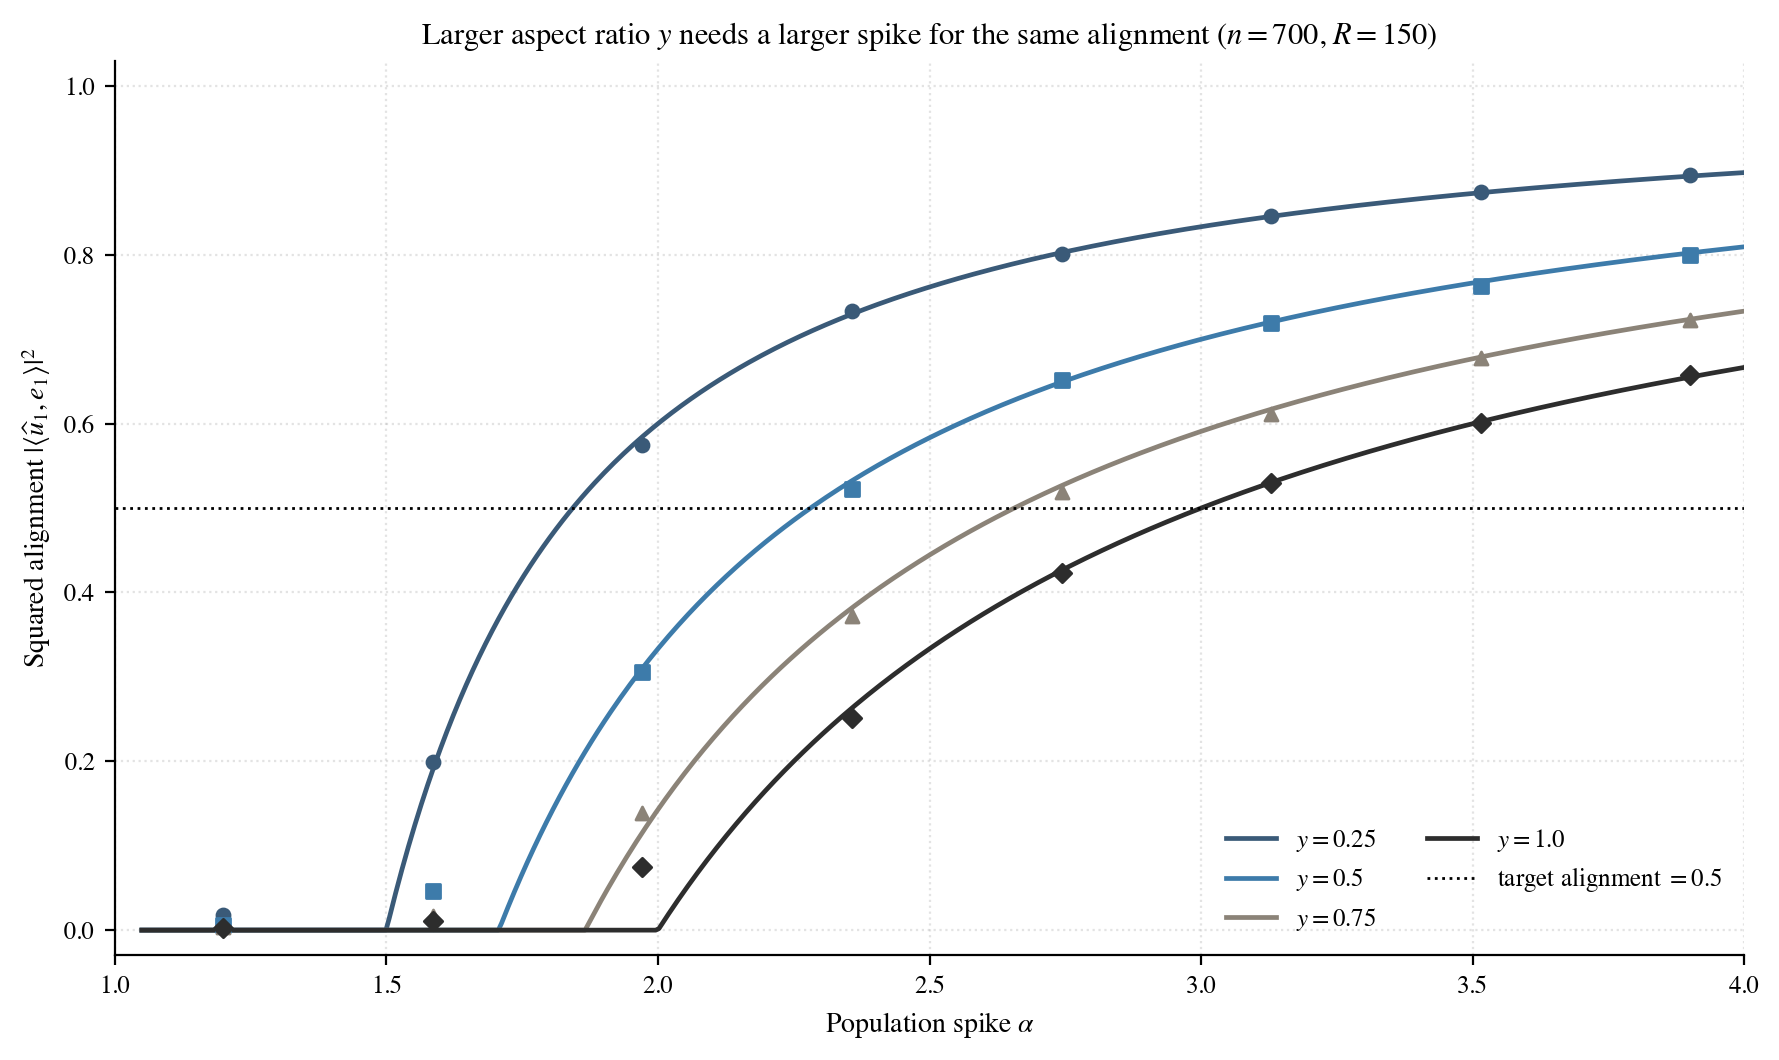
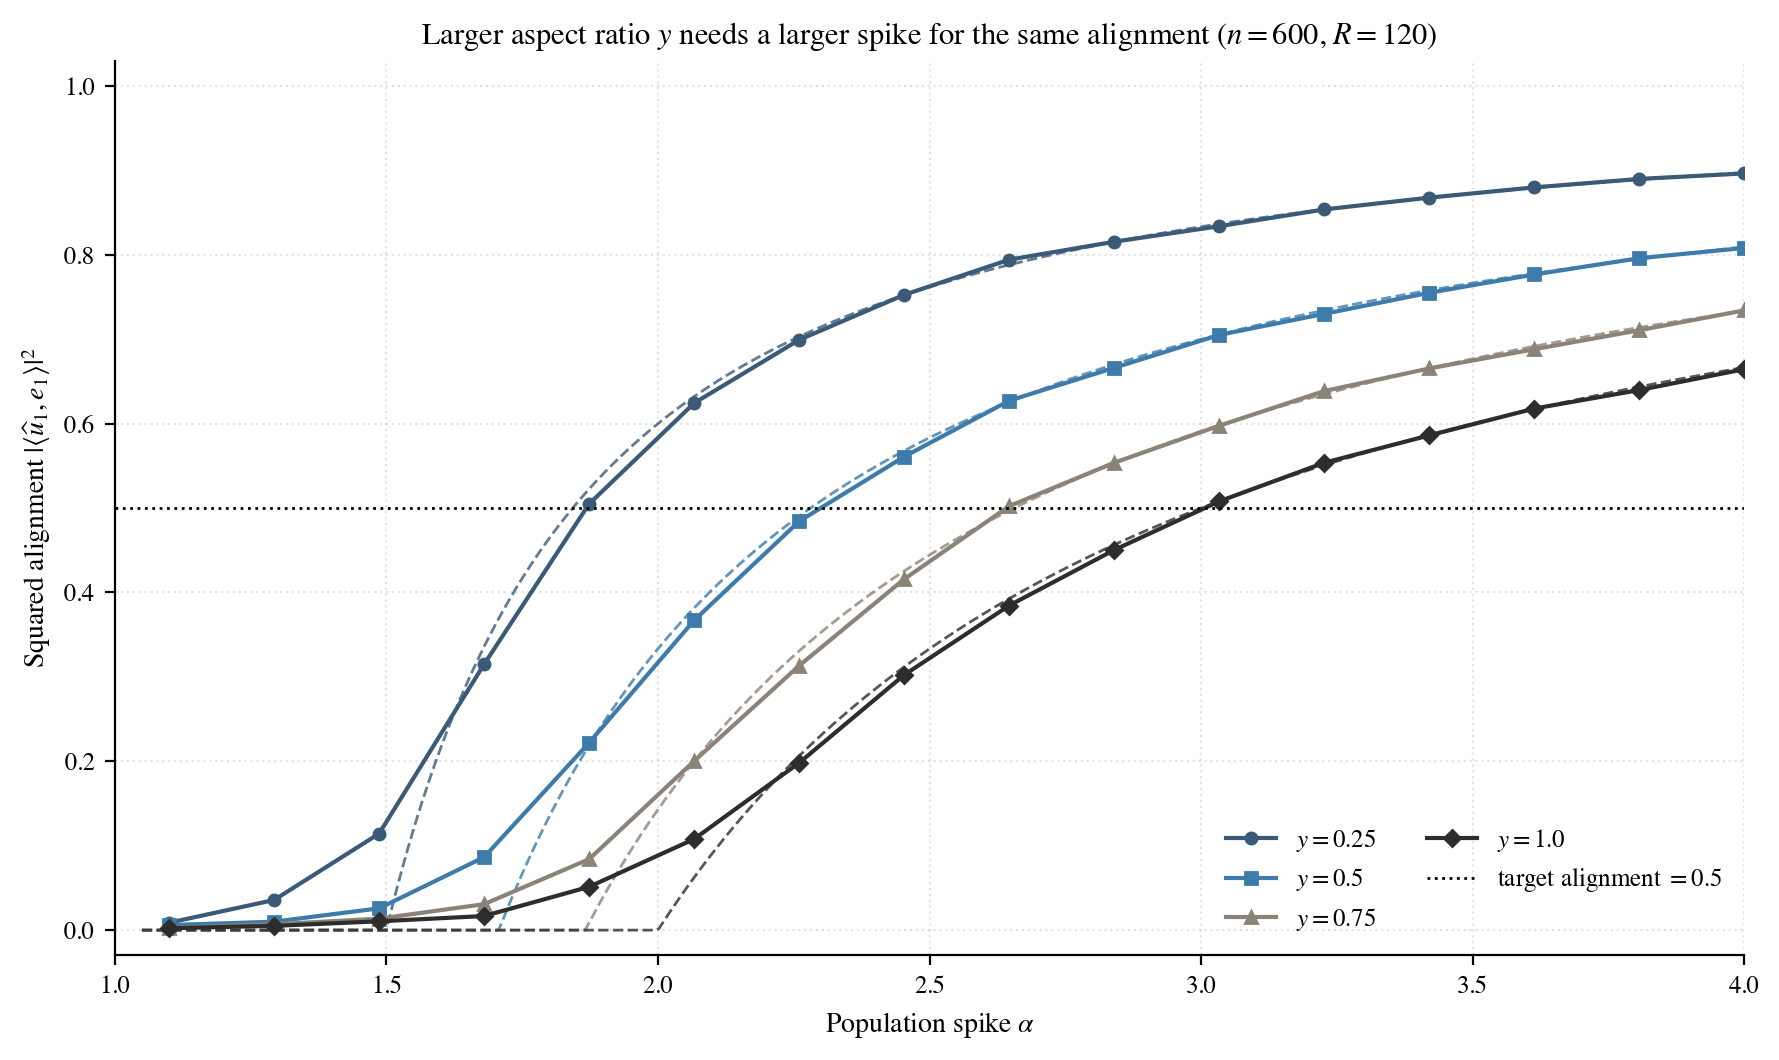
04.4: restructure eigenvector section + show simulated path
Reworks §4.4 for a clearer progression, per feedback:

  - opens with a weak-vs-strong overlap histogram (Figure 23) showing the
    two regimes are cleanly distinct, before any theory;
  - then the theory (Thm 4.5 / Cor 4.6 / the rho identity);
  - alignment-vs-alpha curve (Figure 24);
  - NEW distribution-change violin (Figure 25): the alignment is pinned at
    0 below the threshold, broad and skewed just above, and tight for large
    alpha;
  - dimension/compensation figure (Figure 26) reworked to show the
    SIMULATED PATH (connected simulation means, as in Exercise 7) with the
    theory dashed underneath -- the previous version only scattered points.

Two new figure generators (histogram, violin); the dimension generator now
traces connected simulated paths. Build: 73 pages, no undefined references.

diff --git a/notebooks/04_section4_demos.py b/notebooks/04_section4_demos.py
@@ -836,31 +836,117 @@ def make_eigenvector_alignment_figure() -> Path:
     return path
 
 
+def make_eigenvector_overlap_histogram_figure() -> Path:
+    """Histogram of the squared alignment for a weak (subcritical) and a strong
+    (supercritical) spike at one large n. The two cases land in cleanly distinct
+    places: the weak-spike eigenvector is noise (alignment ~0), the strong-spike
+    eigenvector recovers a definite fraction (~rho). Motivating entry point,
+    mirroring Exercise 7."""
+    rng = np.random.default_rng(SEED + 9)
+    y = 0.5
+    n, p = 1200, 600
+    R = 300
+    alpha_weak, alpha_strong = 1.4, 2.5
+    rho_w = float(rho_overlap(alpha_weak, y))
+    rho_s = float(rho_overlap(alpha_strong, y))
+
+    ov_w = simulate_top_overlap(alpha_weak, p=p, n=n, rng=rng, R=R)
+    ov_s = simulate_top_overlap(alpha_strong, p=p, n=n, rng=rng, R=R)
+
+    fig, ax = plt.subplots(figsize=(9, 5.2))
+    ax.hist(ov_w, bins=30, density=True, color=PALETTE["accent"], alpha=0.65,
+            edgecolor="white", linewidth=0.3,
+            label=rf"weak spike $\alpha = {alpha_weak}$ (subcritical)")
+    ax.hist(ov_s, bins=30, density=True, color=PALETTE["def"], alpha=0.65,
+            edgecolor="white", linewidth=0.3,
+            label=rf"strong spike $\alpha = {alpha_strong}$ (fundamental)")
+    ax.axvline(rho_w, color=PALETTE["accent"], linestyle="--", linewidth=1.4,
+               label=rf"$\rho = {rho_w:.0f}$ (weak)")
+    ax.axvline(rho_s, color=PALETTE["def"], linestyle="--", linewidth=1.4,
+               label=rf"$\rho \approx {rho_s:.2f}$ (strong)")
+
+    ax.set_xlabel(r"Squared alignment $|\langle \widehat{u}_1, e_1\rangle|^2$")
+    ax.set_ylabel("Density")
+    ax.set_title(rf"Weak vs strong spike: two distinct regimes "
+                 rf"($y = 1/2$, $n = {n}$, $R = {R}$)")
+    ax.legend(loc="upper center", frameon=False, fontsize=9)
+    ax.grid(True, linestyle=":", alpha=0.35)
+
+    fig.tight_layout()
+    path = FIGURES_DIR / "eigenvector_overlap_histogram.png"
+    fig.savefig(path)
+    plt.close(fig)
+    return path
+
+
+def make_eigenvector_overlap_violin_figure() -> Path:
+    """Violins of the squared alignment at several spike values, from below the
+    threshold to well above it. Shows how the whole distribution changes:
+    pinned at 0 below the threshold, broad and skewed just above it, then
+    tightening into a narrow blob as alpha grows and recovery becomes reliable."""
+    rng = np.random.default_rng(SEED + 10)
+    y = 0.5
+    n, p = 800, 400
+    R = 400
+    thr = 1.0 + np.sqrt(y)
+
+    alpha_list = [1.30, round(thr, 3), 2.00, 2.50, 3.00, 3.50]
+    data = [simulate_top_overlap(a, p=p, n=n, rng=rng, R=R) for a in alpha_list]
+
+    fig, ax = plt.subplots(figsize=(10, 5.4))
+    parts = ax.violinplot(data, positions=alpha_list, widths=0.18,
+                          showmedians=True, showextrema=False)
+    for body in parts["bodies"]:
+        body.set(facecolor=PALETTE["def"], edgecolor=PALETTE["def"], alpha=0.45)
+    parts["cmedians"].set(color=PALETTE["accent"], linewidth=1.2)
+
+    ax.axvline(thr, color=PALETTE["thm"], linestyle=":", linewidth=1.0,
+               label=rf"Threshold $\alpha_c \approx {thr:.2f}$")
+
+    ax.set_xlim(1.1, 3.7)
+    ax.set_ylim(-0.03, 0.9)
+    ax.set_xlabel(r"Population spike $\alpha$")
+    ax.set_ylabel(r"Squared alignment $|\langle \widehat{u}_1, e_1\rangle|^2$")
+    ax.set_title(rf"How the alignment distribution changes as $\alpha$ grows "
+                 rf"($y = 1/2$, $n = {n}$, $R = {R}$)")
+    ax.legend(loc="upper left", frameon=False, fontsize=9)
+    ax.grid(True, axis="y", linestyle=":", alpha=0.35)
+
+    fig.tight_layout()
+    path = FIGURES_DIR / "eigenvector_overlap_violin.png"
+    fig.savefig(path)
+    plt.close(fig)
+    return path
+
+
 def make_eigenvector_dimension_effect_figure() -> Path:
-    """Squared overlap against alpha for several aspect ratios y. Theory curves
-    (dense) with simulation means (sparse points) overlaid. A horizontal target
-    line shows the compensation question: to reach a fixed alignment, a larger y
-    requires a larger alpha."""
+    """Squared overlap against alpha for several aspect ratios y, showing the
+    SIMULATED PATH (connected simulation means) as in Exercise 7, with the
+    theory rho(alpha, y) dashed underneath. A horizontal target line shows the
+    compensation question: to reach a fixed alignment, a larger y requires a
+    larger alpha."""
     rng = np.random.default_rng(SEED + 8)
-    n = 700
-    R = 150
+    n = 600
+    R = 120
     y_values = [0.25, 0.5, 0.75, 1.0]
     colors = [PALETTE["def"], PALETTE["link"], PALETTE["accent"], PALETTE["thm"]]
     markers = ["o", "s", "^", "D"]
 
     alpha_fine = np.linspace(1.05, 4.0, 500)
-    alpha_pts = np.linspace(1.2, 3.9, 8)
+    alpha_pts = np.linspace(1.1, 4.0, 16)
     target = 0.5
 
     fig, ax = plt.subplots(figsize=(9, 5.4))
     for y, color, mk in zip(y_values, colors, markers):
         p = int(round(y * n))
+        # Theory curve (dashed, underneath).
         ax.plot(alpha_fine, rho_overlap(alpha_fine, y), color=color,
-                linewidth=1.7, label=rf"$y = {y}$")
-        pts = np.empty(len(alpha_pts))
-        for i, alpha in enumerate(alpha_pts):
-            pts[i] = simulate_top_overlap(float(alpha), p=p, n=n, rng=rng, R=R).mean()
-        ax.scatter(alpha_pts, pts, color=color, marker=mk, s=22, zorder=5)
+                linestyle="--", linewidth=1.0, alpha=0.8)
+        # Simulated path: connected means.
+        sim = np.array([simulate_top_overlap(float(a), p=p, n=n, rng=rng, R=R).mean()
+                        for a in alpha_pts])
+        ax.plot(alpha_pts, sim, color=color, marker=mk, markersize=4,
+                linewidth=1.5, label=rf"$y = {y}$")
 
     ax.axhline(target, color="black", linestyle=":", linewidth=1.0,
                label=rf"target alignment $= {target}$")
@@ -893,7 +979,9 @@ if __name__ == "__main__":
                make_spike_fluctuations_figure,
                make_critical_violin_sweep_figure,
                make_critical_merge_densities_figure,
+               make_eigenvector_overlap_histogram_figure,
                make_eigenvector_alignment_figure,
+               make_eigenvector_overlap_violin_figure,
                make_eigenvector_dimension_effect_figure):
         path = fn()
         print(f"  Saved: {path.name}")

diff --git a/sections/04-spiked-covariance-bbp.tex b/sections/04-spiked-covariance-bbp.tex
@@ -216,7 +216,16 @@ Theorem~\ref{thm:bbp} tells us \emph{that} a fundamental spike is visible in the
 \]
 where \(\theta\) is the angle between the two directions; squaring removes the harmless sign ambiguity in \(\widehat{\vect u}_1\). A value near \(1\) means near-perfect recovery; a value near \(0\) means the sample eigenvector is essentially noise.
 
-\citet{YaoZhengBai2015} answer this by splitting the sample eigenvector into the coordinates that carry signal and those that carry only noise.
+A simulation makes the question concrete before any theory. Figure~\ref{fig:eigenvector-histogram} histograms the squared alignment over many trials for a weak spike (\(\alpha = 1.4\), below the threshold) and a strong spike (\(\alpha = 2.5\), above it), at \(y = 1/2\) and \(n = 1200\). The two land in cleanly separated places: the weak-spike alignment piles up near \(0\), so the eigenvector is essentially noise, while the strong-spike alignment concentrates around \(0.58\), so the eigenvector recovers a definite fraction of the true direction. The rest of this subsection explains where these two clusters sit and why a threshold separates them.
+
+\begin{figure}[H]
+  \centering
+  \includegraphics[width=0.9\textwidth]{figures/eigenvector_overlap_histogram.png}
+  \caption{Squared alignment \(\abs{\inner{\widehat{\vect u}_1}{\vect e_1}}^2\) over \(R = 300\) trials at \(y = 1/2\), \(n = 1200\), \(p = 600\), for a weak spike \(\alpha = 1.4\) and a strong spike \(\alpha = 2.5\). The two distributions are disjoint: the weak case sits at \(0\), the strong case near its predicted limit \(\rho(2.5, 1/2) \approx 0.58\) (dashed lines). Generated by \texttt{notebooks/04\_section4\_demos.py}.}
+  \label{fig:eigenvector-histogram}
+\end{figure}
+
+\citet{YaoZhengBai2015} explain this by splitting the sample eigenvector into the coordinates that carry signal and those that carry only noise.
 
 \begin{theorem}[Signal-block length, {\citealp[Thm.~11.5]{YaoZhengBai2015}}]\label{thm:eigvec-general}
 Let \(\alpha_j\) be a fundamental spike (\(\Psi'(\alpha_j) > 0\)), and let \(\widehat{\vect u}\) be a unit sample eigenvector whose eigenvalue converges to \(\Psi(\alpha_j)\). Split its coordinates as \(\widehat{\vect u} = (\widehat{\vect u}_{(1)}, \widehat{\vect u}_{(2)})\), with \(\widehat{\vect u}_{(1)}\) the \(m\) spike directions and \(\widehat{\vect u}_{(2)}\) the \(p - m\) baseline directions. Then \(\widehat{\vect u}_{(1)}\) converges almost surely to a population spike eigenvector for \(\alpha_j\) (the direction \(\vect e_1\) when the spike is simple), and the two blocks have squared lengths
@@ -259,12 +268,21 @@ This ties the two phase transitions together exactly: the alignment carries the 
 
 Figure~\ref{fig:eigenvector-alignment} confirms~\eqref{eq:rho-overlap} at \(y = 1/2\): the simulated alignment stays at zero until the threshold and then rises along \(\rho(\alpha, y)\), reaching \(\rho(2.5, 1/2) \approx 0.58\) at \(\alpha = 2.5\) and approaching \(1\) for large spikes. Detecting a spike and recovering its direction thus share one threshold, but the eigenvector recovers the direction only partially unless the spike is well above it.
 
+The mean is only part of the story. Figure~\ref{fig:eigenvector-violin} shows the whole distribution as the spike grows: it is squeezed against \(0\) below the threshold, broad and skewed upward just above it (the recovery is genuine but highly variable there), and tightens into a narrow band as \(\alpha\) grows and recovery becomes reliable. The points of Figure~\ref{fig:eigenvector-alignment} are the centres of these violins.
+
+\begin{figure}[H]
+  \centering
+  \includegraphics[width=0.95\textwidth]{figures/eigenvector_overlap_violin.png}
+  \caption{Distribution of the squared alignment at six spike values, from below the threshold (\(\alpha = 1.3\)) to well above it (\(\alpha = 3.5\)), at \(y = 1/2\), \(n = 800\), \(R = 400\) (each violin is a kernel-density estimate; the bar is the median). The distribution is pinned at \(0\) below \(\alpha_c \approx 1.71\), broad and skewed just above it, and tight for large \(\alpha\). Generated by \texttt{notebooks/04\_section4\_demos.py}.}
+  \label{fig:eigenvector-violin}
+\end{figure}
+
 The aspect ratio \(y\) sets how far above is ``well above''. Because the threshold \(1 + \sqrt{y}\) grows with \(y\), a higher-dimensional problem (larger \(y = p/n\)) needs a stronger spike to reach the same alignment. Figure~\ref{fig:eigenvector-dimension} shows this directly.
 
 \begin{figure}[H]
   \centering
   \includegraphics[width=0.9\textwidth]{figures/eigenvector_dimension_effect.png}
-  \caption{Squared alignment against \(\alpha\) for four aspect ratios \(y\) (theory curves of~\eqref{eq:rho-overlap}, with simulation means at \(n = 700\), \(R = 150\) overlaid). As \(y\) grows the curve shifts to the right: to reach a fixed alignment, say \(0.5\) (dotted line), a larger \(y\) requires a larger \(\alpha\). Generated by \texttt{notebooks/04\_section4\_demos.py}.}
+  \caption{Squared alignment against \(\alpha\) for four aspect ratios \(y\), at \(n = 600\), \(R = 120\). Solid lines with markers are the simulated means, the path traced as \(\alpha\) grows; dashed lines are the theory \(\rho(\alpha, y)\) of~\eqref{eq:rho-overlap}. As \(y\) grows the path shifts to the right: to reach a fixed alignment, say \(0.5\) (dotted line), a larger \(y\) requires a larger \(\alpha\). Generated by \texttt{notebooks/04\_section4\_demos.py}.}
   \label{fig:eigenvector-dimension}
 \end{figure}
 